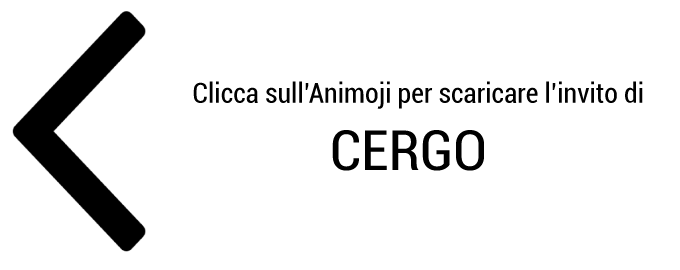
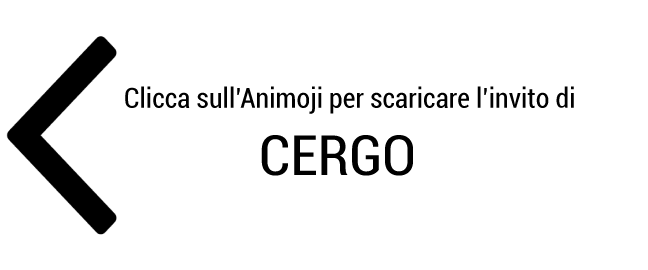
prt6

diff --git a/index.html b/index.html
@@ -32,7 +32,7 @@
            </div>
            
           <div class="col-xs-6">
-              <img src="img/textCergo.png" style="margin-top:55px;">
+              <img src="img/textCergo.png" style="margin-top:85px; width:500px;">
           </div>
                       
        </div> 
@@ -65,7 +65,7 @@
           hour = minute * 60,
           day = hour * 24;
     
-    let countDown = new Date('May 13, 2019 19:30:00').getTime(),
+    let countDown = new Date('May 12, 2019 19:30:00').getTime(),
         x = setInterval(function() {
 
     let now = new Date().getTime(),
